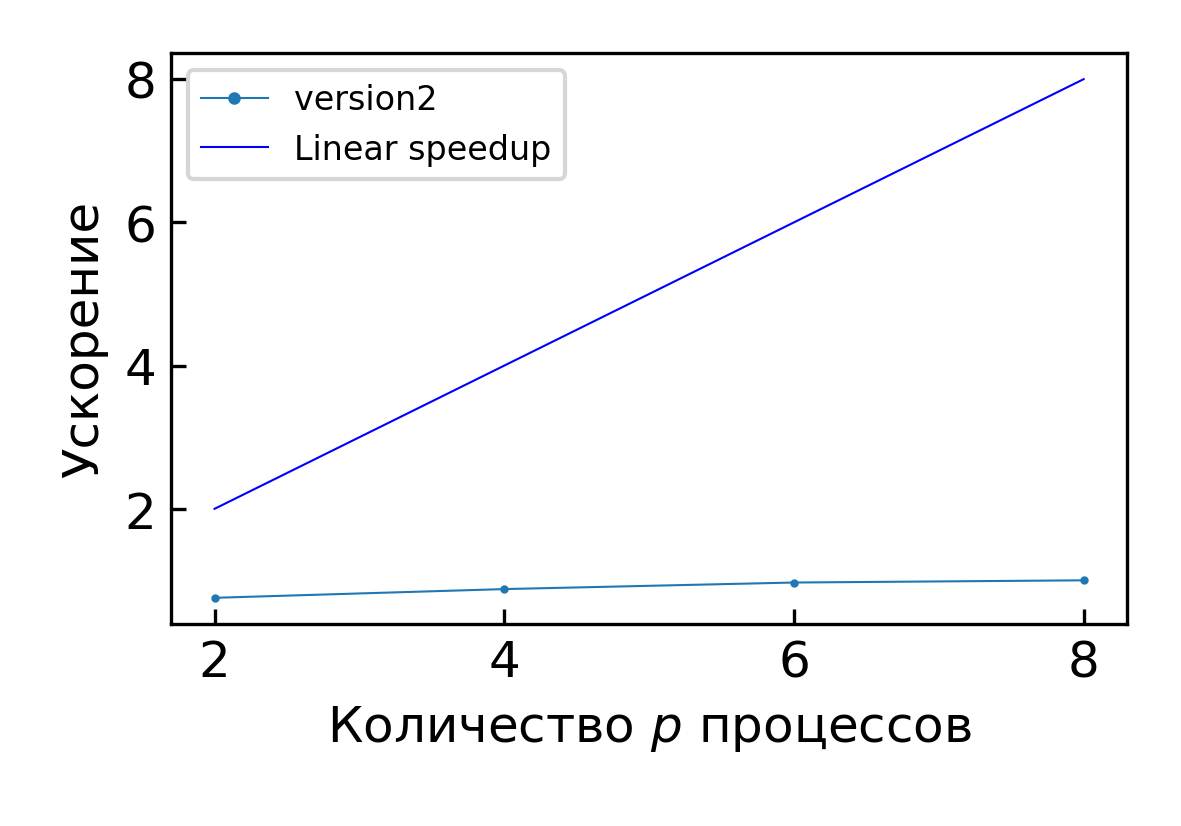
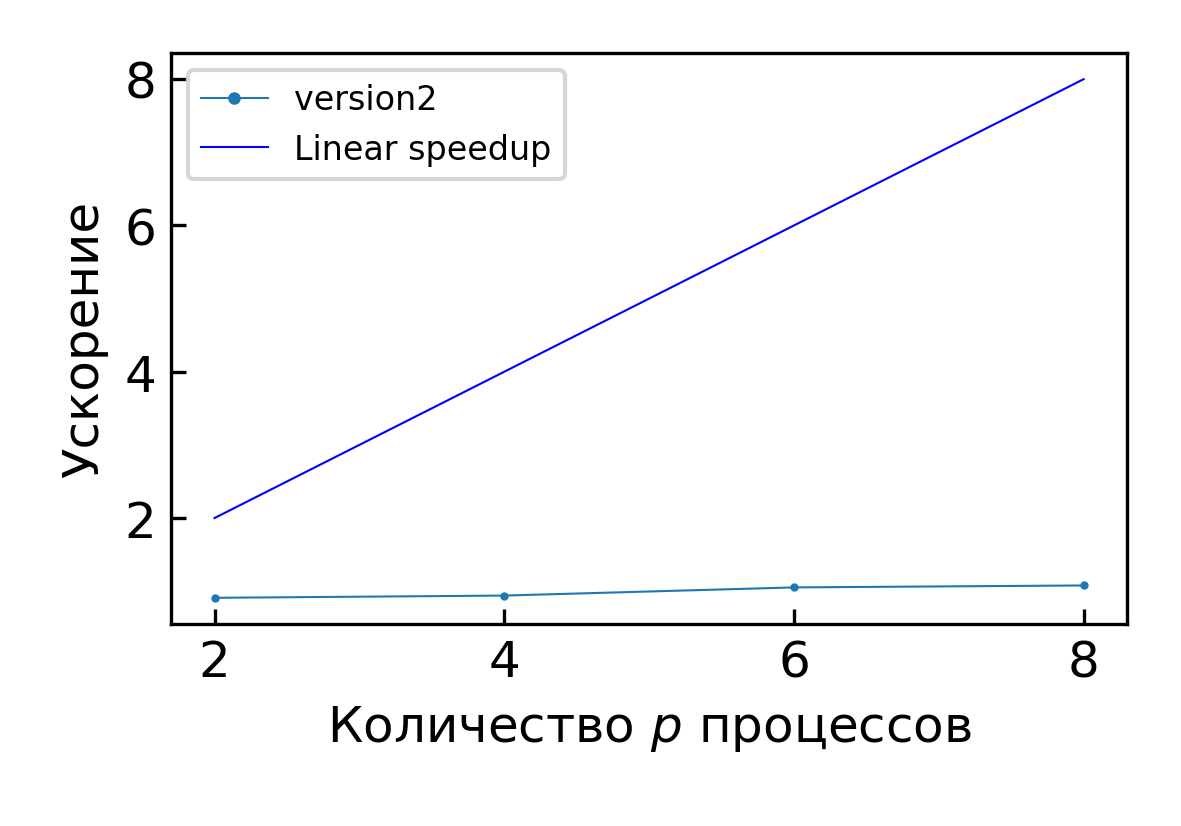
lab4 done

diff --git a/lab4/3/main.c b/lab4/3/main.c
@@ -185,12 +185,14 @@ double main_run_paralel(int n, int n_threads)
     for (int i = 0; i < n; i++)
         omp_init_lock(&locks[i]);
 #pragma omp parallel
+    {
     for (double t = 0; t <= 1; t += dt)
     { // Цикл по времени (модельному)
         calculate_forces_paralel(p, f, m, n);
 #pragma omp barrier
         move_particles_parallel(p, f, v, m, n, dt);
 #pragma omp barrier
+    }
     }
     ttotal += wtime();
     printf("# NBody (n=%d)\n", n);
@@ -206,7 +208,7 @@ double main_run_paralel(int n, int n_threads)
 
 int main(int argc, char *argv[])
 {
-    int n = 50;
+    int n = 100;
     double time_pos = main_run(n);
     for (int i = 2; i <= 8; i+=2)
     {

diff --git a/lab4/2/main.c b/lab4/2/main.c
@@ -180,12 +180,14 @@ double main_run_paralel(int n, int n_threads)
     double dt = 1e-5;
     ttotal = -wtime();
 #pragma omp parallel
+    {
     for (double t = 0; t <= 1; t += dt)
     { // Цикл по времени (модельному)
         calculate_forces_paralel(p, f, m, n);
 #pragma omp barrier
         move_particles_parallel(p, f, v, m, n, dt);
 #pragma omp barrier
+    }
     }
     ttotal += wtime();
     printf("# NBody (n=%d)\n", n);
@@ -200,7 +202,7 @@ double main_run_paralel(int n, int n_threads)
 
 int main(int argc, char *argv[])
 {
-    int n = 50;
+    int n = 100;
     double time_pos = main_run(n);
     for (int i = 2; i <= 8; i+=2)
     {

diff --git a/lab4/4/main.c b/lab4/4/main.c
@@ -179,12 +179,14 @@ double main_run_paralel(int n, int n_threads)
     double dt = 1e-5;
     ttotal = -wtime();
 #pragma omp parallel
+    {
     for (double t = 0; t <= 1; t += dt)
     { // Цикл по времени (модельному)
         calculate_forces_paralel(p, f, m, n);
 #pragma omp barrier
         move_particles_parallel(p, f, v, m, n, dt);
 #pragma omp barrier
+    }
     }
     ttotal += wtime();
     printf("# NBody (n=%d)\n", n);
@@ -199,7 +201,7 @@ double main_run_paralel(int n, int n_threads)
 
 int main(int argc, char *argv[])
 {
-    int n = 50;
+    int n = 100;
     double time_pos = main_run(n);
     for (int i = 2; i <= 8; i+=2)
     {

diff --git a/lab4/5/main.c b/lab4/5/main.c
@@ -156,7 +156,7 @@ void move_particles_parallel(
     int n,
     float dt)
 {
-#pragma omp for nowait
+#pragma omp for
     for (int i = 0; i < n; i++)
     {
         struct particle dv = {
@@ -230,7 +230,7 @@ double main_run_paralel(int n, int n_threads)
 
 int main(int argc, char *argv[])
 {
-    int n = 50;
+    int n = 100;
     double time_pos = main_run(n);
     for (int i = 2; i <= 8; i+=2)
     {

diff --git a/lab4/1/main.c b/lab4/1/main.c
@@ -171,7 +171,7 @@ double main_run_paralel(int n, int n_threads)
 
 int main(int argc, char *argv[])
 {
-    int n = 50;
+    int n = 100;
     double time_pos = main_run(n);
     for (int i = 2; i <= 8; i+=2)
     {
